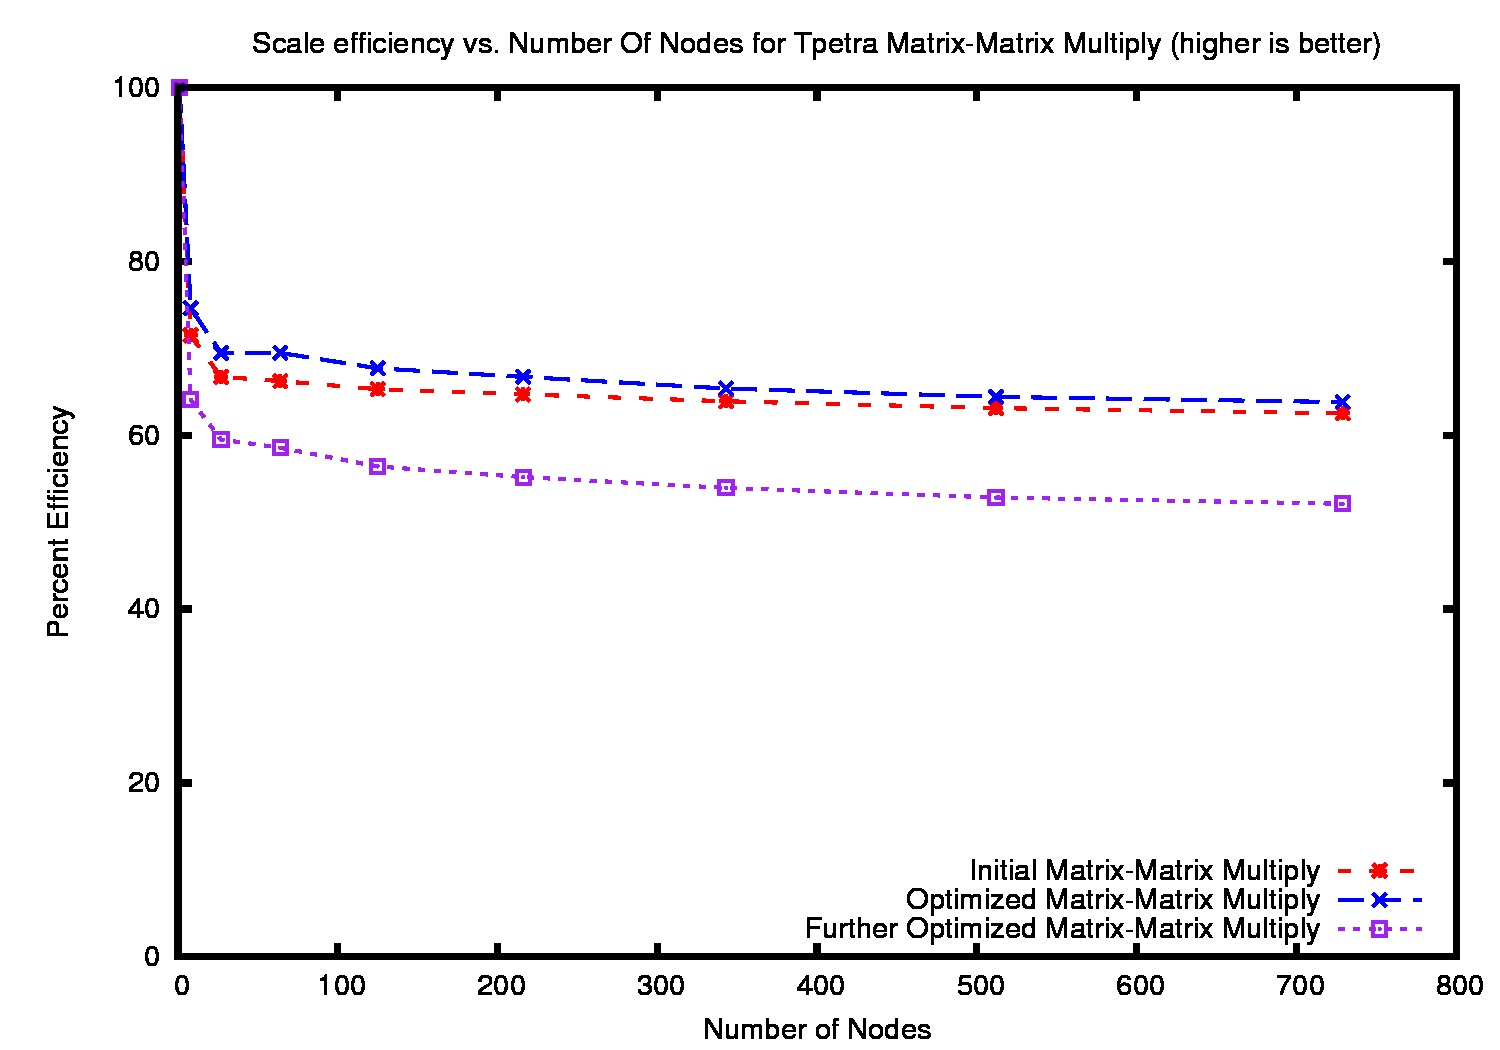
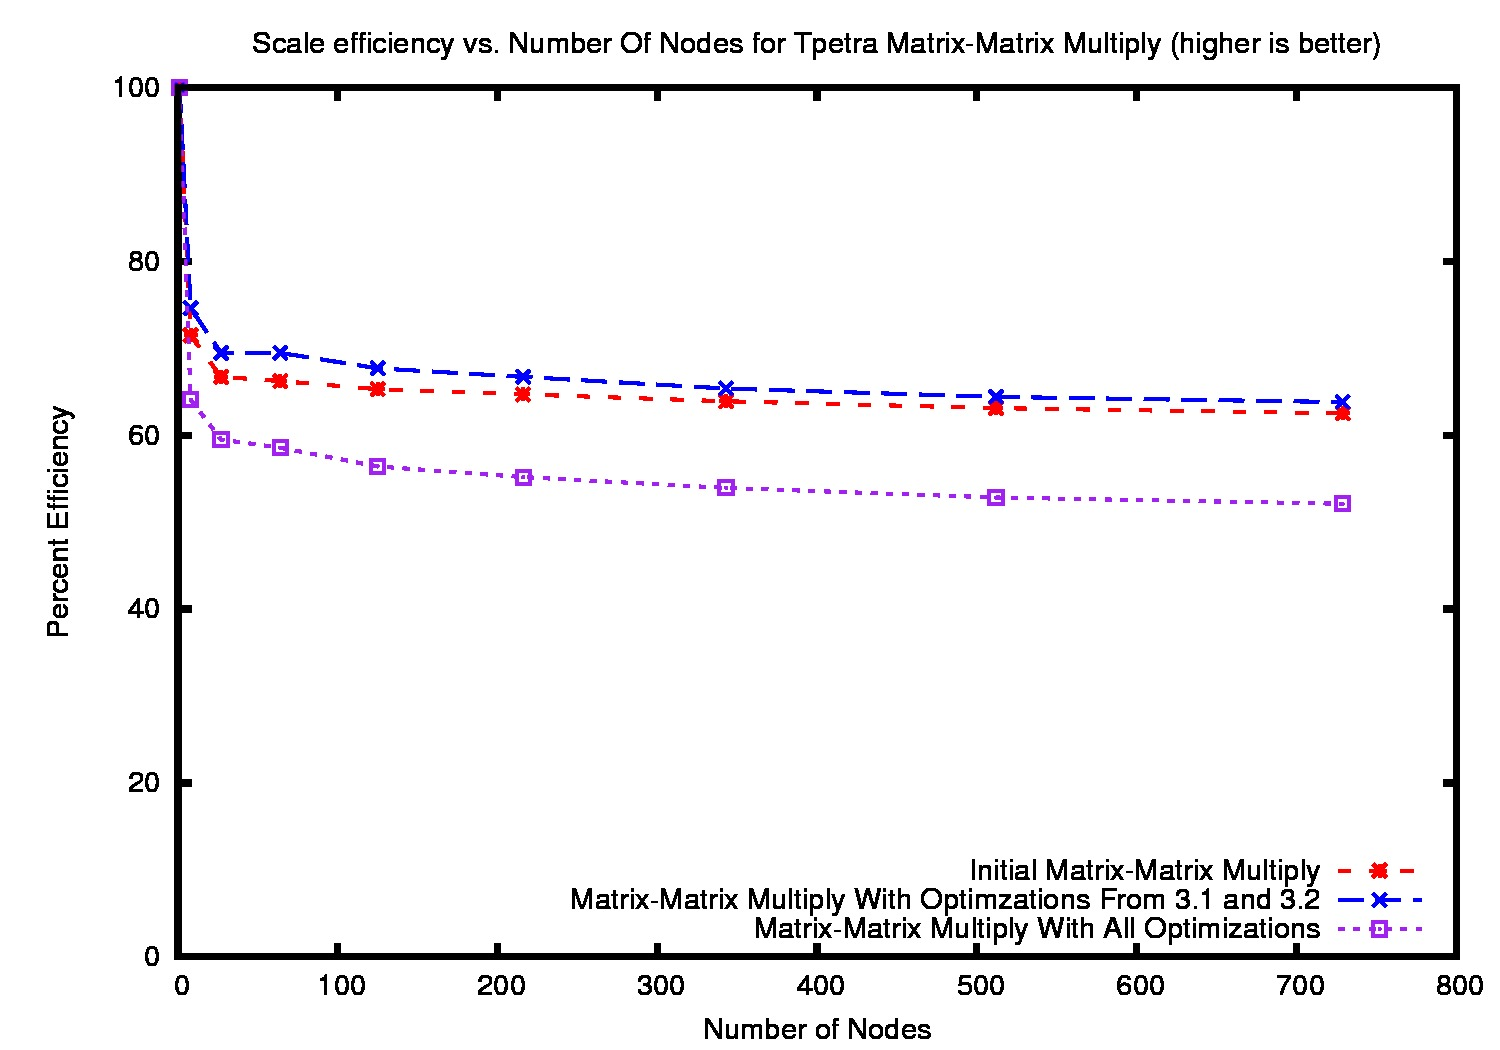
Fixed the graphs in the Tpetra development section. Addressed some of JHu's questions. Made some formating adjustments.
-Kurtis

Changed region(s): [[0.368, 0.8229, 0.8893, 0.9143]]

diff --git a/packages/tpetra/doc/MatrixMatrixReport/matmatreport.tex b/packages/tpetra/doc/MatrixMatrixReport/matmatreport.tex
@@ -19,7 +19,6 @@
 \definecolor{klnBlue}{rgb}{.2,.1,.7}
 \newcommand{\KLN}[1]{\textcolor{klnBlue}{KLN: #1}}
 
-\newcommand{\mahts}[1]{\textsuperscript{#1}}
 \newcommand{\Aprime}{\ensuremath{A'}\xspace}
 \newcommand{\Bprime}{\ensuremath{B'}\xspace}
 \title{Evaluation of Tpetra's Matrix-Matrix Multiplication Routine}
@@ -48,7 +47,6 @@ discuss the optimizations made to the routine, it's current state, and where fut
 
 
 \section{Basic Outline of the Algorithm}
-\JJH{I'd suggest adding citations throughout.}
 The Tpetra matrix-matrix multiply algorithm allows two matrices ($A$ and $B$) to be multiplied. The result of this 
 multiplication is then placed in a third matrix ($C$).
 The basic algorithm is as follows:
@@ -70,15 +68,20 @@ The basic algorithm is as follows:
 \section{Optimization}
 
 \subsection{Fixing FillComplete's Sort}
-As part of its algorithm, the \verb!fillComplete! function relies on a function called sort2. This function performs a sort 
+As part of its algorithm, the \verb!fillComplete! function relies on a function called \verb!sort2!. This function performs a sort 
 on two arrays by sorting the first array and concurrently doing the same permutations on the second array, 
 i.e. both arrays are sorted according to the ordering of the first array. The main use case for this function is sorting 
 an indices array and moving the values in a values array so that they stay matched up with their associated index.
 
-Up until recently, the sort2 function relied on an insertion sort algorithm. We modified the function so that it first 
+Up until recently, the \verb!sort2! function relied on an insertion sort algorithm. We modified the function so that it first 
 checks to see if the arrays are already sorted (which happens quite often) and returns right away if they are. 
-If the arrays are not sorted, a quicksort is performed on the arrays.
+If the arrays are not sorted, a quicksort is performed on the arrays. This means that for the section of our matrix-matrix
+multiply routine where we call \verb!fillComplete! we went from running on average $0(n^2)+C$ to running on average
+$0(nlog(n))+C$ where $C$ is a constant representing all the other computation done in the \verb!fillComplete! routine.
+It's also worth noting that since our \verb!sort2! function checks first to see if the arrays are already in order, we avoid
+the worst case runtime for the quicksort routine.
 \JJH{Can you quantify the difference in performance that just this change makes?}
+\KLN{So I added what I think quantifies it. Is that what you're looking for?}
 
 \subsection{Removal of Specific Transpose Mode Kernels}
 In the original ExpetraExt algorithm there was actually a separate kernel for each possible transpose combination 
@@ -111,7 +114,7 @@ $Nnzm$ less operations?}
 We conducted a series of weak-scaling studies on the Hopper NERSC machine. Hopper is a Cray XE6 with 24 cores
 per-node~\footnote{For more machine information regarding Hopper, please visit \url{http://www.nersc.gov/systems/hopper-cray-xe6}}.
 We define weak-scailing as increasing the problem size while holding the amount of work each node does constant. We define
-weak-scailing effciency as $TimeInSerial/TimeInParallel$.
+weak-scailing effciency as $Time_{serial}/Time_{parallel}$.
 
 \subsection{Comparison of Development Stages}
 Figure~\ref{tpetracomptime} and Figure~\ref{tpetracompeff} show the test results of comparing the Tpetra matrix-matrix multiply 
@@ -121,7 +124,7 @@ $110^3$ number of rows from each matrix (this means each core has approximately 
 Then the two matrices were multiplied together. The multiplication is what 
 we timed. We ran these experiments three times for each node count, and then averaged the results.
 The red line represents the routine as it was when we first got the routine working. The blue line is from after 
-we sort2 algorithm problem had been fixed and we removed the specific transpose mode kernels. 
+we \verb!sort2! algorithm problem had been fixed and we removed the specific transpose mode kernels. 
 And the purple line represents the routine after all optimizations had been applied.
 As can be clearly seen, the optimizations we applied helped the algorithm substantially.
 
@@ -174,6 +177,7 @@ but the EpetraExt algorithm was taking even longer (over ten minutes on a single
 waste our limited computing resources. ML is not included in these results because it does not have a transpose mode.
 \JJH{ML matrices could be transposed first, however, then multiplied together.  This is basically what Tpetra does with
 the rowMatrixTranposer.}
+\KLN{True. So should I say that?}
 
 \begin{figure}
 \includegraphics[scale=.4]{atranstime.jpg}
